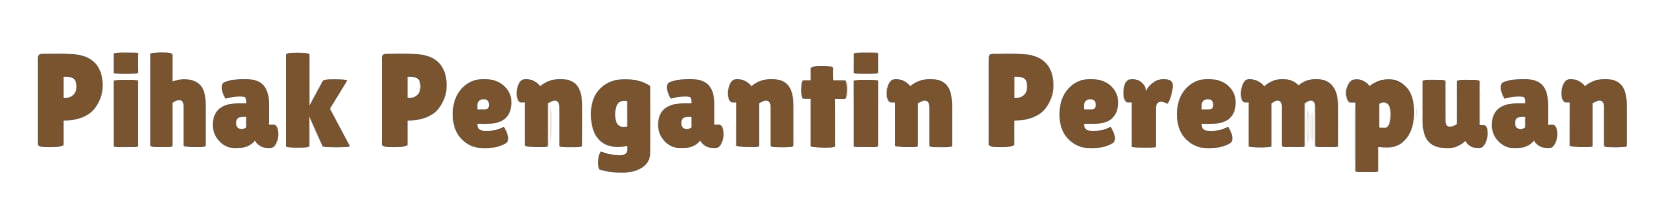
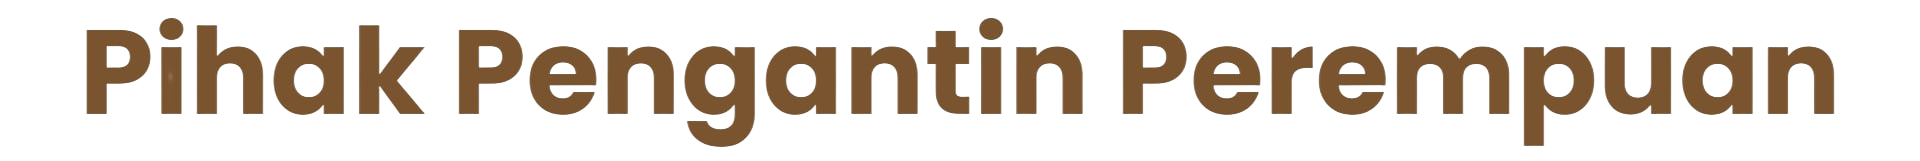
Replace family titles with PNG images

Changed region(s): [[0.0, 0.1242, 0.9831, 0.9317]]

diff --git a/index.html b/index.html
@@ -247,7 +247,7 @@
     </h3>
 
         <p>Isnin | 31 Ogos 2026</p>
-        <p>11.30 pagi - 4.30 petang</p>
+        <p>11:30 pagi - 4:30 petang</p>
 
     <h3 class="section-title">
         <span class="title-icon">📍</span>
@@ -281,7 +281,7 @@
 
         <div class="time">
 
-            <h3>11.30 pagi</h3>
+            <h3>11:30 pagi</h3>
 
             <p>Jamuan Bermula</p>
 
@@ -289,7 +289,7 @@
 
         <div class="time">
 
-            <h3>12.30 tengah hari</h3>
+            <h3>12:30 tengah hari</h3>
 
             <p>Ketibaan Pengantin</p>
 
@@ -297,7 +297,7 @@
 
         <div class="time">
 
-            <h3>4.30 petang</h3>
+            <h3>4:30 petang</h3>
 
             <p>Majlis Bersurai</p>
 
